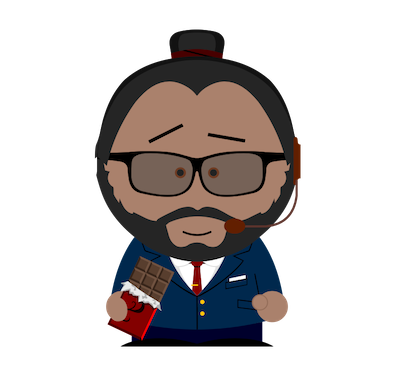
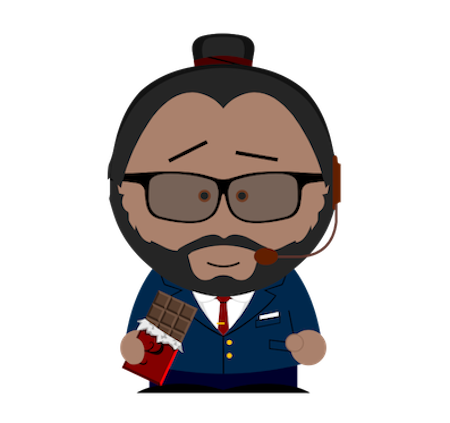
Images HomePage updated

diff --git a/src/common/Constants.js b/src/common/Constants.js
@@ -52,7 +52,7 @@ export const SITE_MODULES = [
 		shortDesc: '',
 		longDesc: 'My thoughts & opinions on ideas and events in Technology, History, Science, Software & programing.',
 		link: '/posts',
-		img: '/images/trnsp-blg.png',
+		img: '/images/blog.png',
 		navEnabled: true,
 		homeEnabled:true,
 	},
@@ -61,7 +61,7 @@ export const SITE_MODULES = [
 		shortDesc: 'Random clicks at not so random locations, all from iphone.',
 		longDesc: 'Phone photography, so many random clicks at not so random places, all taken from iphone.',
 		link: '/photos',
-		img: '/images/trnsp-cmr.png',
+		img: '/images/camera.png',
 		navEnabled: true,
 		homeEnabled:true,
 	},
@@ -71,7 +71,7 @@ export const SITE_MODULES = [
 		shortDesc: 'My opinions on various different "things"',
 		longDesc: 'My thoughts & recommendations about "things" across various catagories.  Some articles may contain affiliated links',
 		link: '/reviews',
-		img: '/images/trnsp-rvw.png',
+		img: '/images/review.png',
 		navEnabled: true,
 		homeEnabled:true,
 	},
@@ -89,7 +89,7 @@ export const SITE_MODULES = [
 		shortDesc: 'Nothing much interesting.',
 		longDesc: 'Another subpar technologist. Loves Coding, Chocolates, Mountains, History, Philosophy & Construction. Not necessarily in same order',
 		link: '/about',
-		img: '/images/trnsp-spme-blue-200.png',
+		img: '/images/spme.png',
 		navEnabled: true,
 		homeEnabled:true,
 	},

diff --git a/src/components/homepage/Home.css b/src/components/homepage/Home.css
@@ -20,7 +20,8 @@
 
 .home>.content img{
   /* filter: drop-shadow( 1px 1px 2px  var(--color-secondary)) grayscale(.2);; */
-    filter: drop-shadow( 1px 1.5px 0px  var(--app-font-color));
+    filter: drop-shadow( 1px 1.5px 0px  var(--app-font-color)) brightness(80%);
+    
 }
 
 /* for my south park image */
